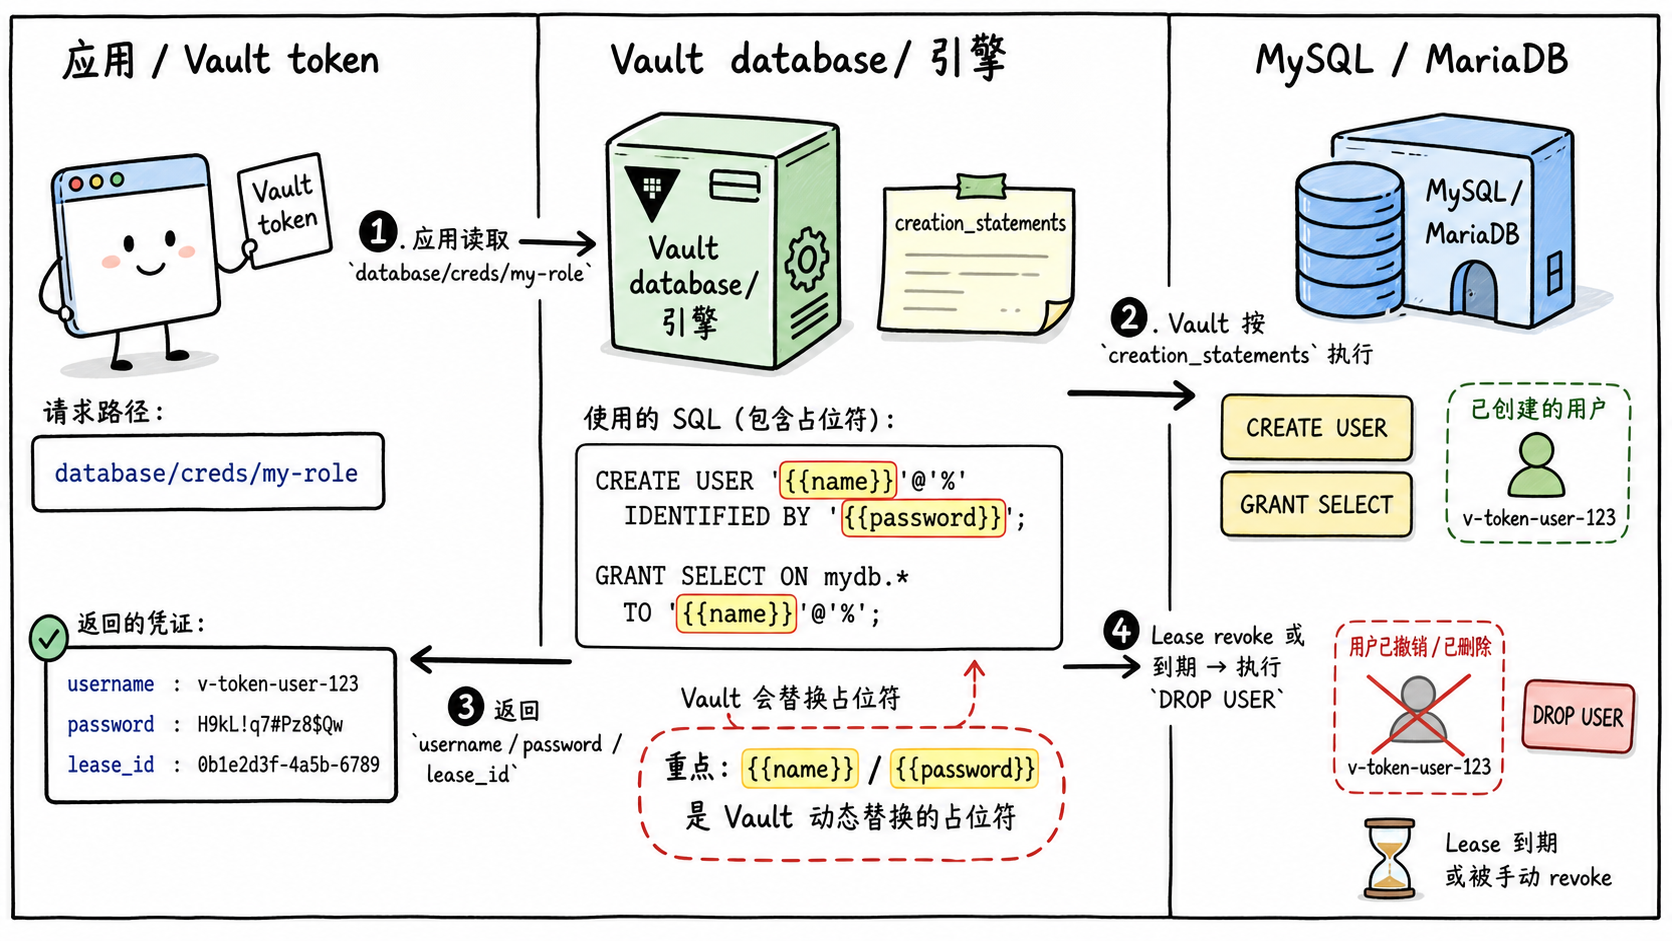
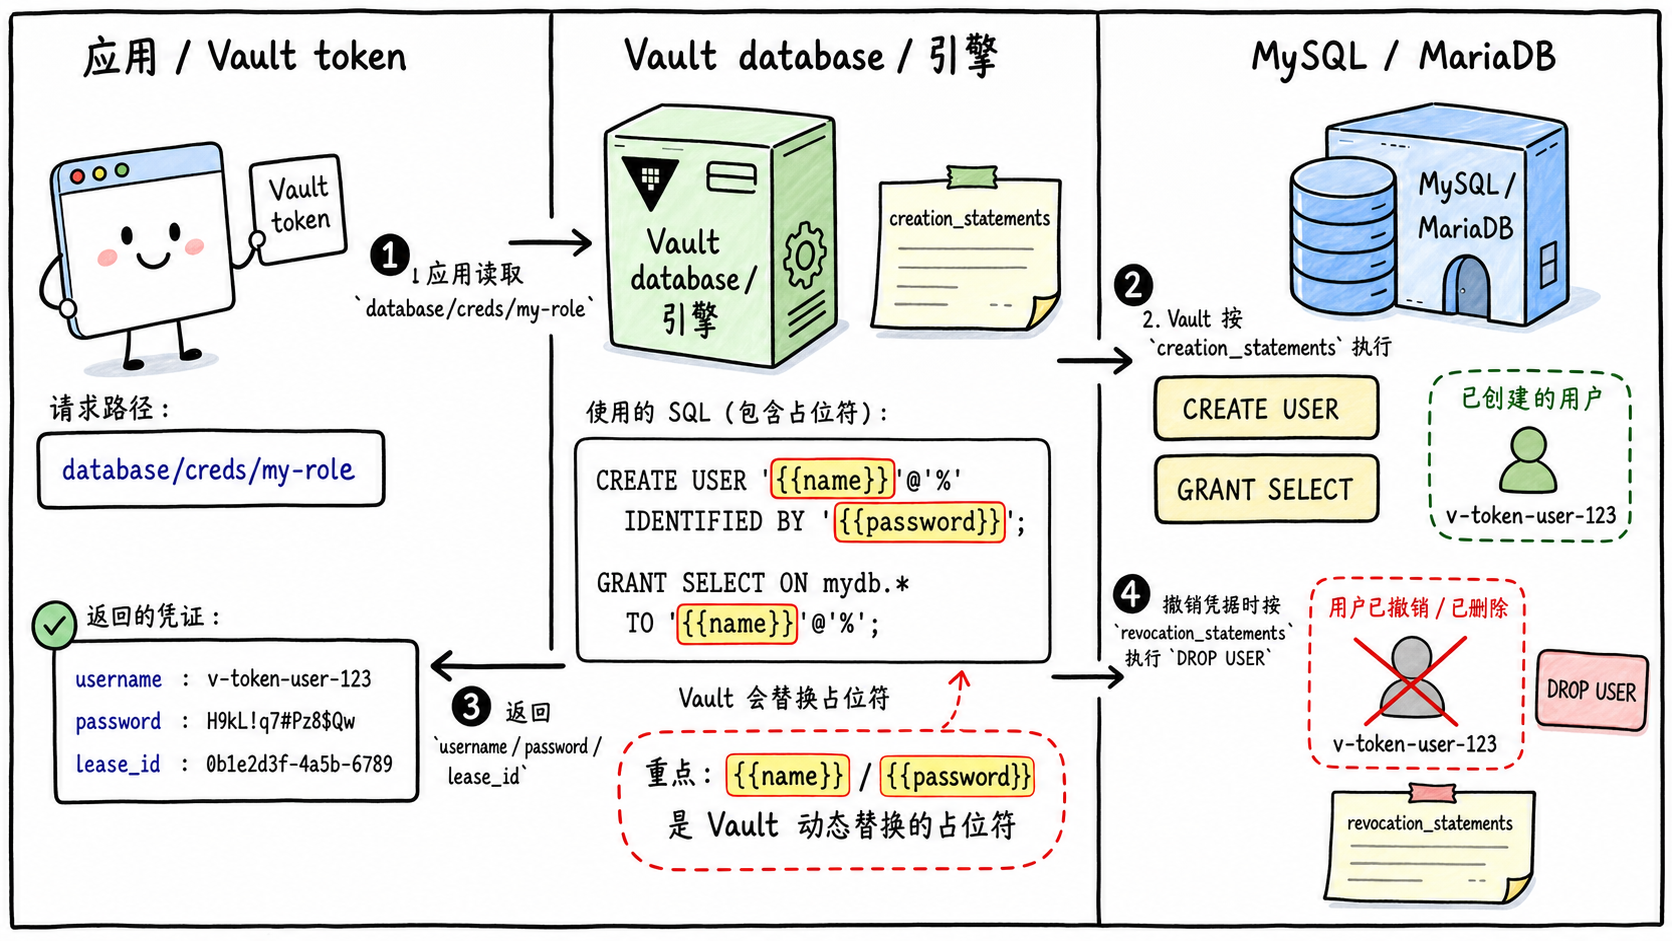
Update MySQL tutorial diagrams

diff --git a/docs/ch3-mysql.md b/docs/ch3-mysql.md
@@ -19,8 +19,6 @@ group_order: 30
 
 ![MySQL/MariaDB Database Secrets Engine flow](/images/ch3-mysql/mysql-dynamic-credential-flow.png)
 
-> 手绘风格绘图指令：画一个左侧“应用/Vault token”、中间“Vault database/ 引擎”、右侧“MySQL/MariaDB”的三栏流程图；箭头 1 是应用读 `database/creds/my-role`，箭头 2 是 Vault 按 `creation_statements` 到 MySQL 执行 `CREATE USER` 和 `GRANT SELECT`，箭头 3 是 Vault 把 `username/password/lease_id` 返回给应用，箭头 4 是撤销凭据时按 `revocation_statements` 执行 `DROP USER`。画风像白板手绘，线条略微不齐，重点标出 `{{name}}` 和 `{{password}}` 是 Vault 替换的占位符。
-
 > 核查注：图中若出现“Lease 到期后清理用户”的表达，是为了和 [2.3 Lease](/ch2-lease) 的上层租约机制衔接；这两份 MySQL/MariaDB 原文只直接展示 `lease_*` 输出字段，并说明 `revocation_statements` 是撤销用户时执行的语句。
 
 ---
@@ -189,9 +187,7 @@ $ vault write database/roles/my-role \
 
 API 页也印证了这个写法：`creation_statements` 可以接收 base64-encoded semicolon-separated string，所以官方 wildcard 示例不是“特殊技巧”，而是 API 明确支持的输入格式。
 
-![Wildcard grant statement](/images/ch3-mysql/mysql-wildcard-grant.svg)
-
-> 手绘风格绘图指令：画一排三个数据库桶，名字分别是 `fooapp_a`、`fooapp_b`、`barapp_a`；一把钥匙从 Vault 指向前两个桶，钥匙标签写 `GRANT SELECT ON \`fooapp\_%\`.*`，第三个桶旁边画一个小叉。旁边补一个小 shell 气泡：“反引号会被 shell 解释，所以把 SQL 先 base64”。
+![Wildcard grant statement](/images/ch3-mysql/mysql-wildcard-grant.png)
 
 ---
 
